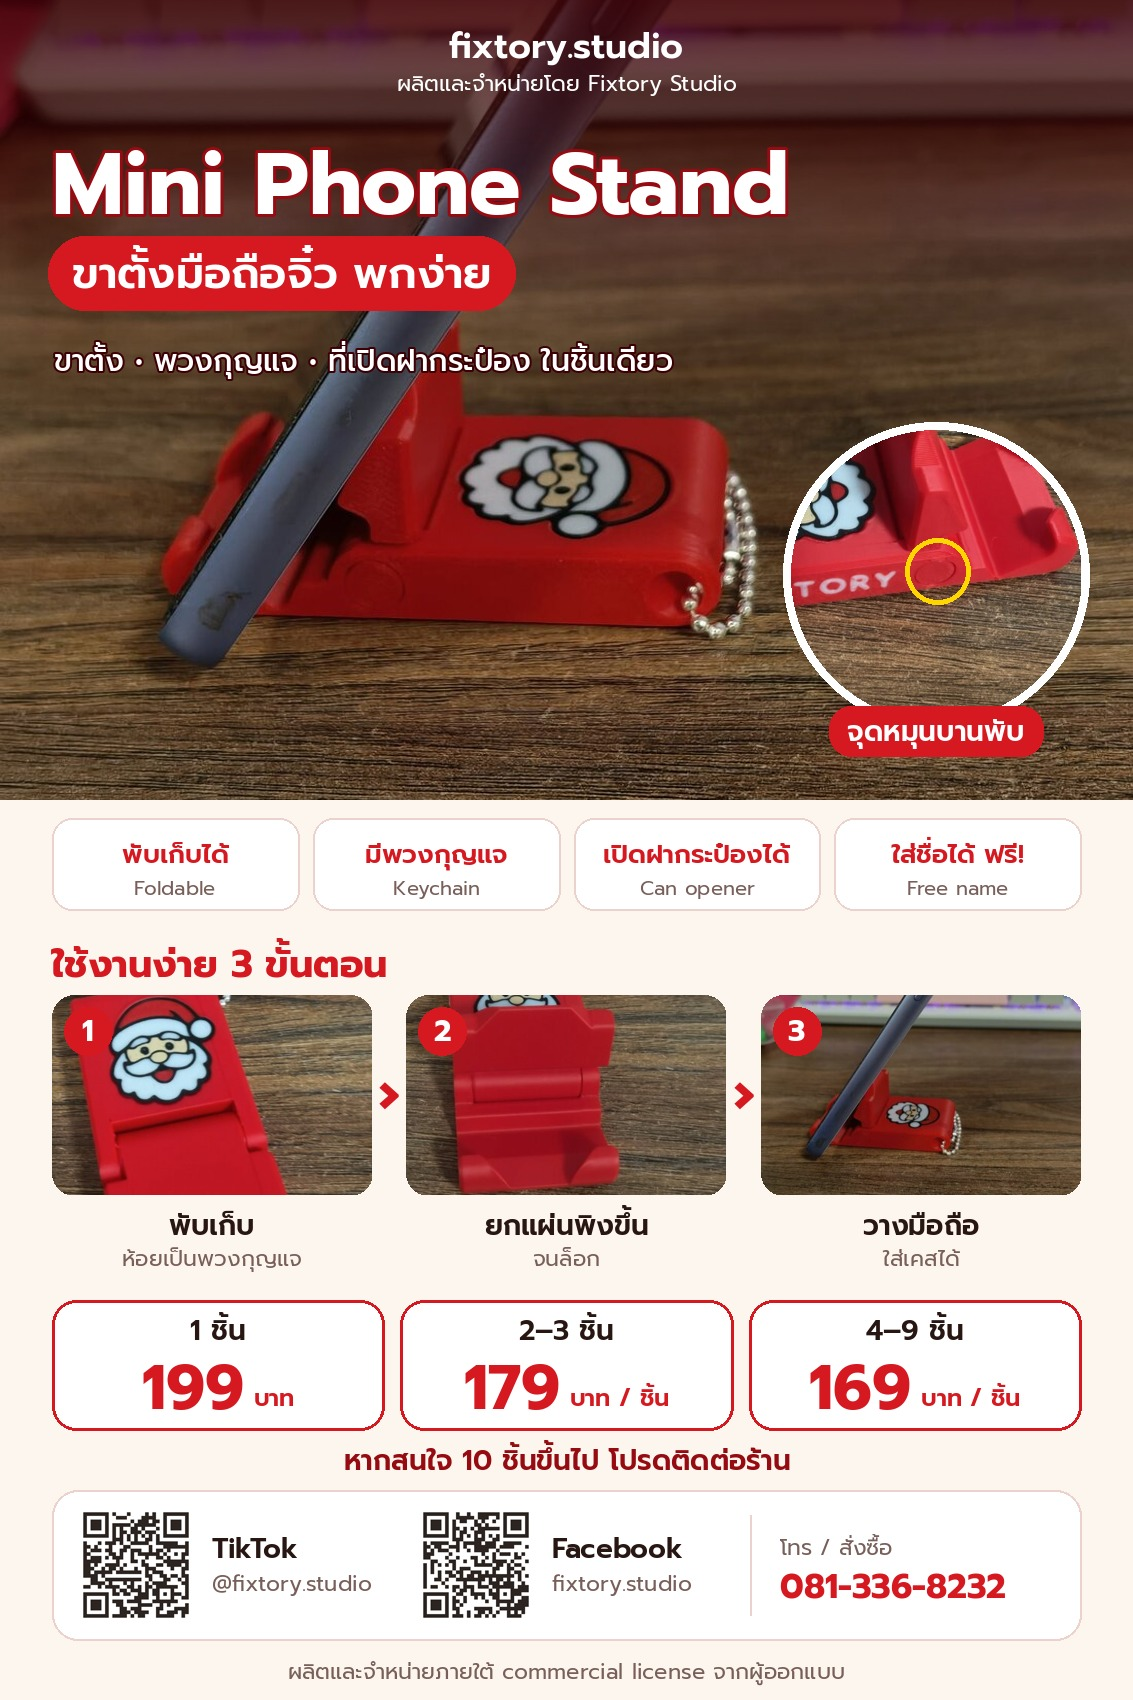
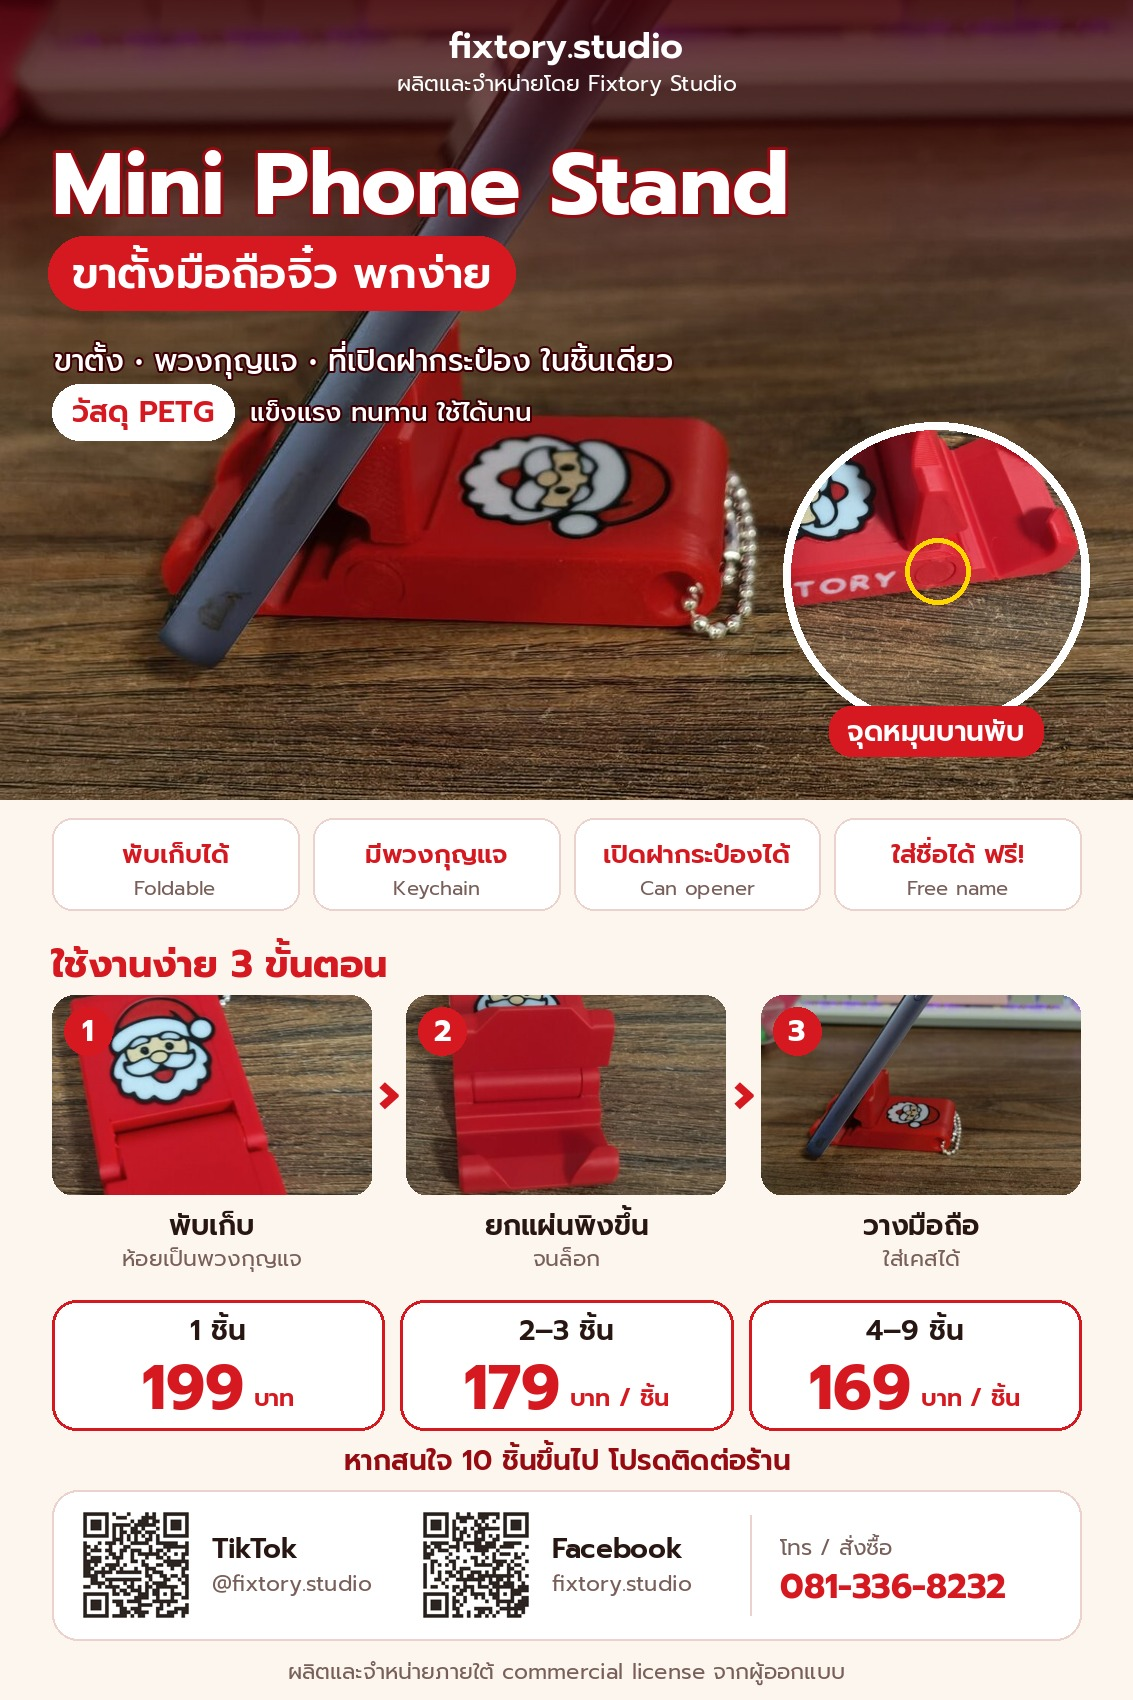
ref: poster v3 add material PETG
Claude-Session: https://claude.ai/code/session_019RUqrcAvqWfbrg4V6Uwwsg

Changed region(s): [[0.0309, 0.2182, 0.4634, 0.2806]]

diff --git a/ref/phonestand-photos/poster_v3_make.py b/ref/phonestand-photos/poster_v3_make.py
@@ -33,6 +33,12 @@ d.rounded_rectangle((48, 236, 48 + bw + 48, 310), 37, fill=RED)
 T((72, 273), sub, fs, 'white', anchor='lm')
 T((54, 338), 'ขาตั้ง • พวงกุญแจ • ที่เปิดฝากระป๋อง ในชิ้นเดียว', font('Medium', 30), 'white', stroke=2, sf=(60, 0, 4))
 
+# material pill (like Lever Switch Cover)
+mt = 'วัสดุ PETG'; fm = font('SemiBold', 30); mw = d.textlength(mt, font=fm)
+d.rounded_rectangle((52, 384, 52 + mw + 40, 440), 28, fill='white')
+T((72, 412), mt, fm, RED, anchor='lm')
+T((52 + mw + 56, 412), 'แข็งแรง ทนทาน ใช้ได้นาน', font('Medium', 26), 'white', anchor='lm', stroke=2, sf=(60, 0, 4))
+
 # hinge callout (real close-up)
 cr = 290; cx, cy = W - 52 - cr, 430
 d.ellipse((cx - 8, cy - 8, cx + cr + 8, cy + cr + 8), fill='white')
